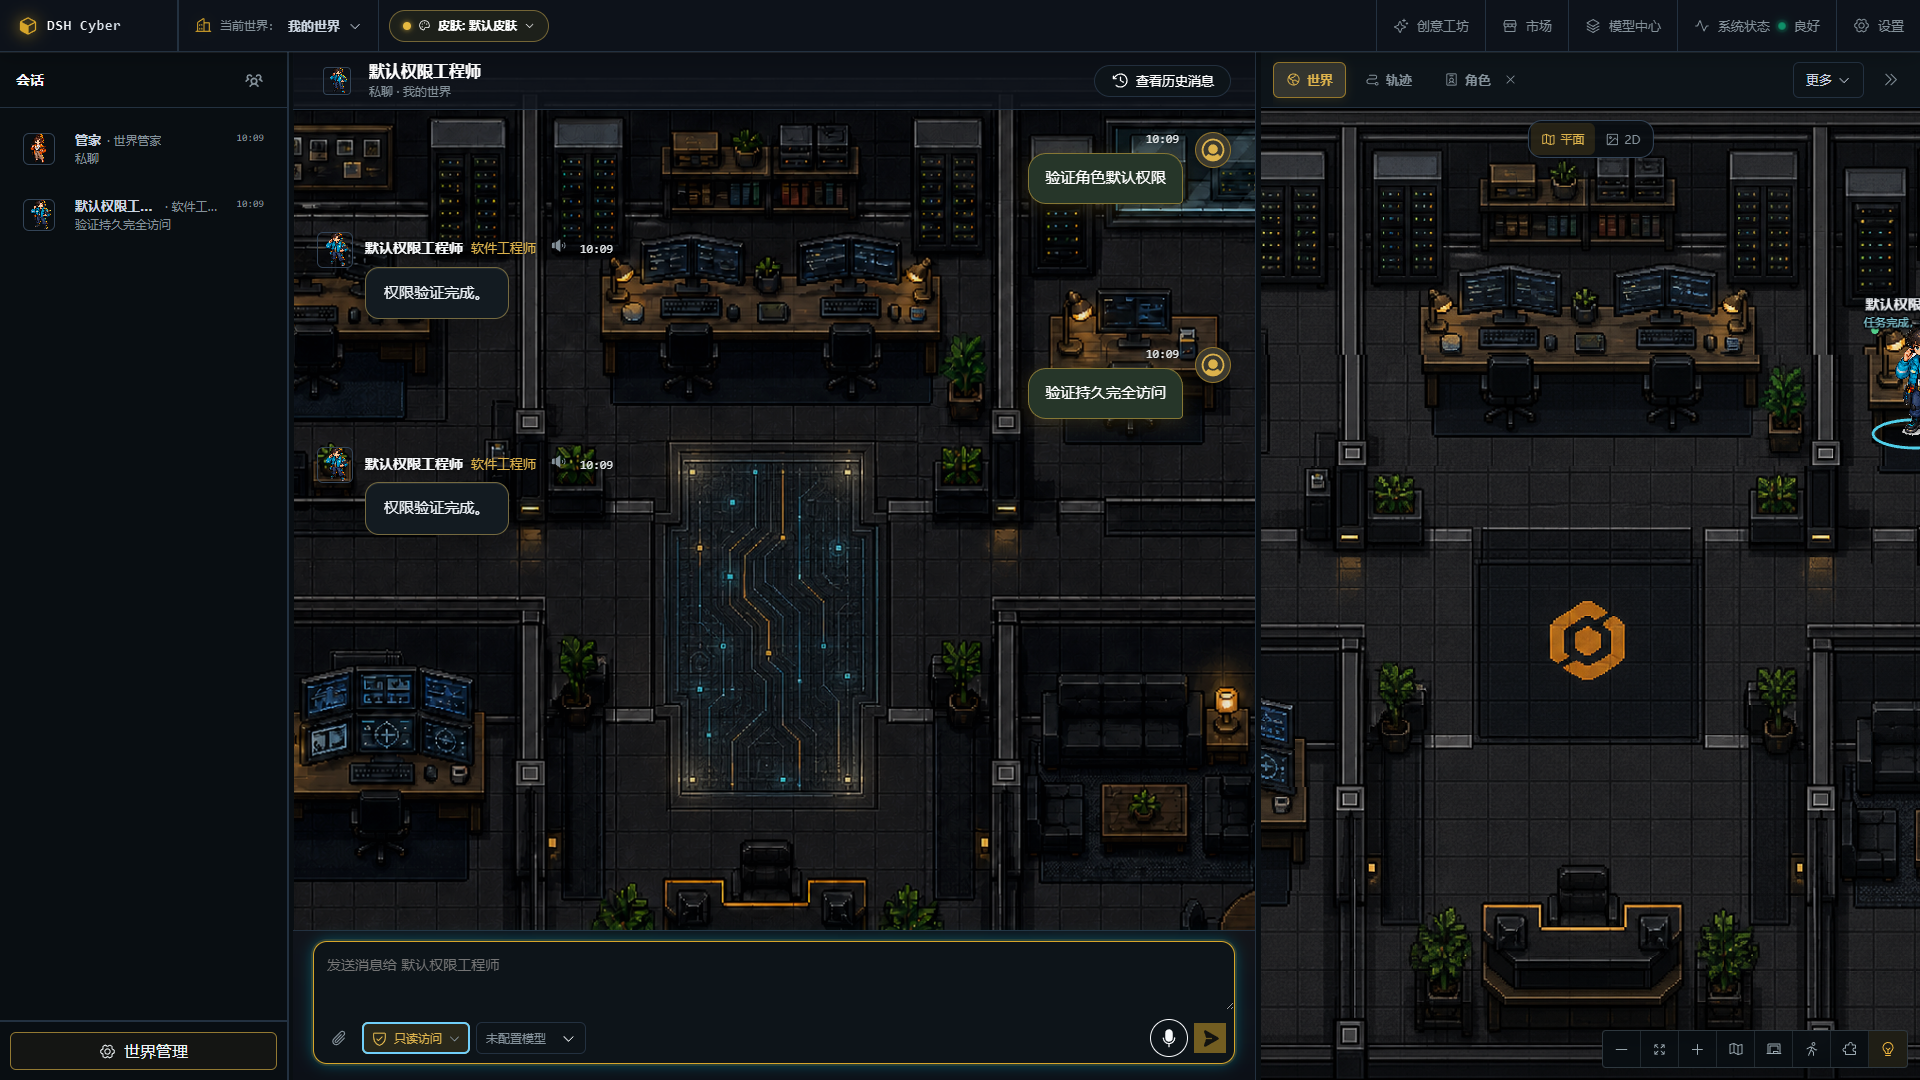
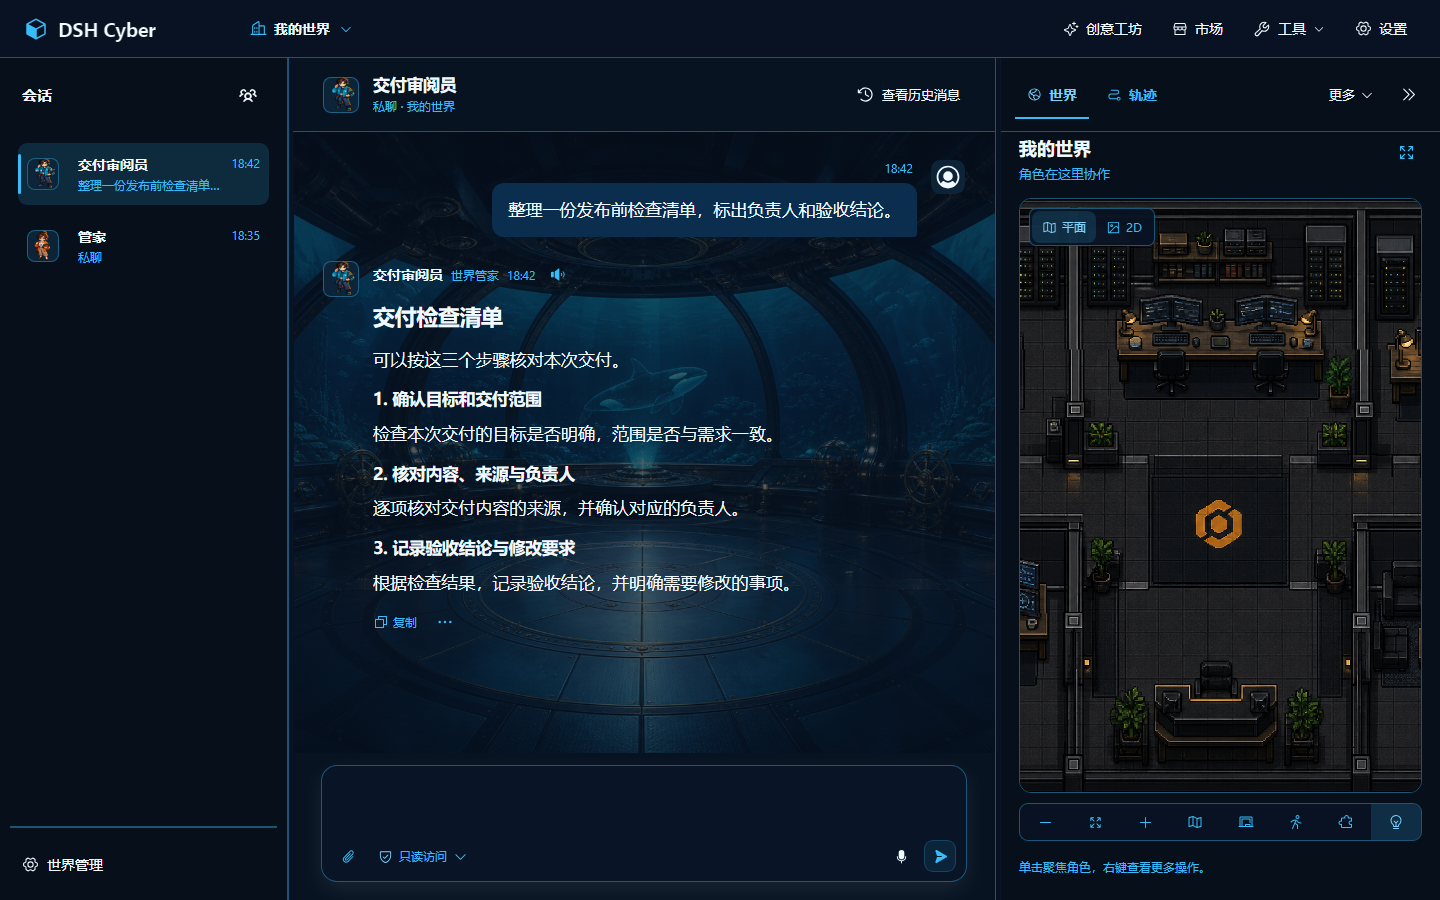
docs: refresh the readme with the current deep-sea workspace (#233)

diff --git a/README.md b/README.md
@@ -9,16 +9,15 @@
 [官网](https://www.sandaoliu.cn/) · [English](./README_EN.md) · [产品路线](./docs/roadmap.md) · [贡献指南](./CONTRIBUTING.md)
 
 [![CI](https://github.com/cyber-ai-agent/dsh-cyber/actions/workflows/ci.yml/badge.svg)](https://github.com/cyber-ai-agent/dsh-cyber/actions/workflows/ci.yml)
-[![E2E](https://github.com/cyber-ai-agent/dsh-cyber/actions/workflows/full-e2e.yml/badge.svg)](https://github.com/cyber-ai-agent/dsh-cyber/actions/workflows/full-e2e.yml)
 [![License: PolyForm Noncommercial 1.0.0](https://img.shields.io/badge/license-PolyForm%20Noncommercial%201.0.0-2f81f7)](./LICENSE)
 
 **Pre-Alpha** · 自备模型服务 · Windows / macOS / Linux
 
 </div>
 
-![DSH Cyber 深海女仆工坊主题工作台](./docs/assets/screenshots/01-maid-atelier.png)
+![DSH Cyber 深海皮肤工作台：会话、角色协作与世界视窗](./docs/assets/screenshots/workspace-current.png)
 
-<p align="center"><em>深海女仆工坊：会话、角色、世界与运行权限在同一个工作台中协同。</em></p>
+<p align="center"><em>虎鲸链路深海皮肤：左侧管理会话，中间查看角色交付，右侧呈现可交互世界，输入区完整保留在首屏。</em></p>
 
 DSH Cyber 基于 [DeepSeek Harness](https://github.com/deepseek-ai/deepseek-harness) 构建。它把模型与工具执行能力组织为长期存在的世界、角色、会话、任务和成果，而不是把多个角色压缩成一次性的提示词。
 
@@ -36,7 +35,7 @@ DSH Cyber 基于 [DeepSeek Harness](https://github.com/deepseek-ai/deepseek-harn
 | 世界产物 | 将真实文件发布为不可变版本，支持 Markdown、代码、JSON、PDF、图片和隔离网页预览。 |
 | 知识与记忆 | 导入文件、文件夹、ZIP、粘贴内容和公开网页；按来源检索资料并形成带证据的知识图谱。 |
 | 创意工坊 | 通过分步流程创建世界、角色、皮肤和插件草稿，经预览与包校验后安装。 |
-| 统一市场 | 按“世界 → 角色 → 插件”浏览和安装扩展，并继续完成创建世界、招募角色或启用插件。 |
+| 统一市场 | 浏览世界、角色、插件和界面皮肤，并继续完成创建世界、招募角色、启用插件或应用皮肤。 |
 | 模型中心 | 管理模型服务商、同步模型目录、按工作区/世界/角色分配模型，并查看按服务商归属的交互与 Token 统计。 |
 | 本地语音 | 可选安装本地 TTS 与 STT；浏览器通过本机服务使用流式音频、语音识别和打断。 |
 
@@ -70,31 +69,19 @@ Trace  = 运行状态 + 工具摘要 + 安全证据 + 任务来源
 
 轨迹只展示脱敏、限长后的安全摘要与工具证据，不持久化密钥、Authorization、Cookie、密码、Token、完整 Prompt 或原始工具 payload。
 
-## 深海主题世界
+## 世界与界面皮肤
 
-世界主题为聊天区域、世界视图和角色形象提供统一的视觉语境。当前内置深海系列包括深海女仆工坊、白鲸圣女和漆黑虎鲸。
-
-<table>
-<tr>
-<td width="50%">
-<img src="./docs/assets/screenshots/06-white-whale-maiden.png" alt="白鲸圣女深海主题" />
-<br/><b>白鲸圣女</b><br/>明亮的海底圣殿与白鲸场景。
-</td>
-<td width="50%">
-<img src="./docs/assets/screenshots/07-black-orca-maiden.png" alt="漆黑虎鲸深海主题" />
-<br/><b>漆黑虎鲸</b><br/>深海舰桥、虎鲸群与冷色霓虹界面。
-</td>
-</tr>
-</table>
+每个世界拥有独立角色、会话、地图和运行状态。界面皮肤负责配色、聊天背景和气泡样式，世界场景继续呈现该世界的角色与设施。皮肤可以从市场安装，并按世界独立应用。
 
 ## 工作台信息架构
 
 ```text
-顶部：创意工坊 · 市场 · 模型中心 · 系统状态 · 设置
+顶部：创意工坊 · 市场 · 工具 · 设置
 左侧：当前世界的会话
 中间：聊天与最终结果
 右侧：世界 · 轨迹 · 更多
 更多：角色 · 任务 · 知识 · 产物 · 日程等按需页签
+工具：皮肤 · 技能中心 · 模型中心 · 连接中心 · 系统状态
 ```
 
 - 左侧只显示会话；角色实例的浏览、设置、授权和成长记录集中在“角色”档案。
@@ -104,7 +91,7 @@ Trace  = 运行状态 + 工具摘要 + 安全证据 + 任务来源
 
 ## 模型、权限与真实动作
 
-模型中心从仓库维护的 [`catalog/model-providers.json`](./catalog/model-providers.json) 加载可用入口，支持内置服务商、本机或局域网服务以及自定义 OpenAI 兼容接口。模型默认按以下优先级继承，会话也可以显式选择其他模型：
+模型中心从仓库维护的 [`catalog/model-providers.json`](./catalog/model-providers.json) 加载可用入口，支持内置服务商、本机或局域网服务以及自定义 OpenAI 兼容接口。模型按角色配置，聊天窗口直接使用当前角色的模型；未单独配置时按以下优先级继承：
 
 ```text
 角色模型 > 世界模型 > 工作区默认模型 > 默认模型档案
@@ -179,7 +166,7 @@ pnpm build
 pnpm dsh-cyber web
 ```
 
-打开 [http://127.0.0.1:43123](http://127.0.0.1:43123)，在“模型中心”添加服务商、同步或填写模型 ID，再进入世界开始交流。
+打开 [http://127.0.0.1:43123](http://127.0.0.1:43123)，从“工具 → 模型中心”添加服务商、同步或填写模型 ID，再进入世界开始交流。
 
 需要本地语音时额外执行：
 

diff --git a/README_EN.md b/README_EN.md
@@ -9,7 +9,6 @@ Create characters with identity and memory, collaborate in interactive worlds, a
 [Website](https://www.sandaoliu.cn/) · [简体中文](./README.md) · [Contributing](./CONTRIBUTING.md)
 
 [![CI](https://github.com/cyber-ai-agent/dsh-cyber/actions/workflows/ci.yml/badge.svg)](https://github.com/cyber-ai-agent/dsh-cyber/actions/workflows/ci.yml)
-[![E2E](https://github.com/cyber-ai-agent/dsh-cyber/actions/workflows/full-e2e.yml/badge.svg)](https://github.com/cyber-ai-agent/dsh-cyber/actions/workflows/full-e2e.yml)
 [![License](https://img.shields.io/badge/license-see%20LICENSE-blue)](./LICENSE)
 
 </div>
@@ -22,7 +21,7 @@ The project is **Pre-Alpha**. APIs and features are evolving. Bring your own mod
 
 ![Conversation and world workspace](./docs/assets/screenshots/workspace-current.png)
 
-*An example workspace: conversations on the left, chat in the center, and world and result views on the right.*
+*The current workspace in the deep-sea Orca Link skin: conversations on the left, character deliverables in the center, the interactive world on the right, and the complete composer in view.*
 
 ![Artifact reader](./docs/assets/screenshots/artifacts-current.png)
 
@@ -38,8 +37,10 @@ The project is **Pre-Alpha**. APIs and features are evolving. Bring your own mod
 | Artifacts | Register real files as referenceable versions and preview documents, images, code, and isolated web pages. |
 | Knowledge and memory | Import reference material, extract source-backed knowledge, and preserve character-owned conversation memory. |
 | Tasks and schedules | Organize plans, assignments, deliverables, and reviews; schedule work with durable run records. |
-| Workshop and market | Generate and review world, character, skin, and plugin drafts, then install through a shared package system. |
+| Workshop and market | Generate and review world, character, skin, and plugin drafts, then create, recruit, activate, or apply them through a shared package system. |
 | Model hub | Manage provider connections and model selection with locally encrypted credentials. |
+
+Models are assigned per character in **Tools → Model Hub**. The chat composer uses the active character's assignment directly.
 
 Chat shows conversational results. Trace explains execution. An artifact must correspond to a real file; a model’s claim is not evidence that a tool succeeded or a task finished.
 
@@ -101,9 +102,9 @@ flowchart TB
 | `packages/web`, `packages/world-runtime` | Workspace UI and world runtime |
 | `packages/package-runtime`, `packages/catalog`, `marketplace` | Extension packages and built-in catalogs |
 
-DSH is pinned to `0.1.5-rc.2`. Upstream remains in prerelease status. Runtime upgrades require compatibility checks and real worker tests.
+DSH is pinned to `0.1.6-alpha.1`. Upstream remains in prerelease status. Runtime upgrades require compatibility checks and real worker tests.
 
-See [`docs/development/deepseek-harness-compatibility-2026-09-14.md`](./docs/development/deepseek-harness-compatibility-2026-09-14.md) for the compatibility matrix and upgrade evidence.
+See [`docs/development/deepseek-harness-compatibility-2026-09-16.md`](./docs/development/deepseek-harness-compatibility-2026-09-16.md) for the compatibility matrix and upgrade evidence.
 
 ## Quick start
 
